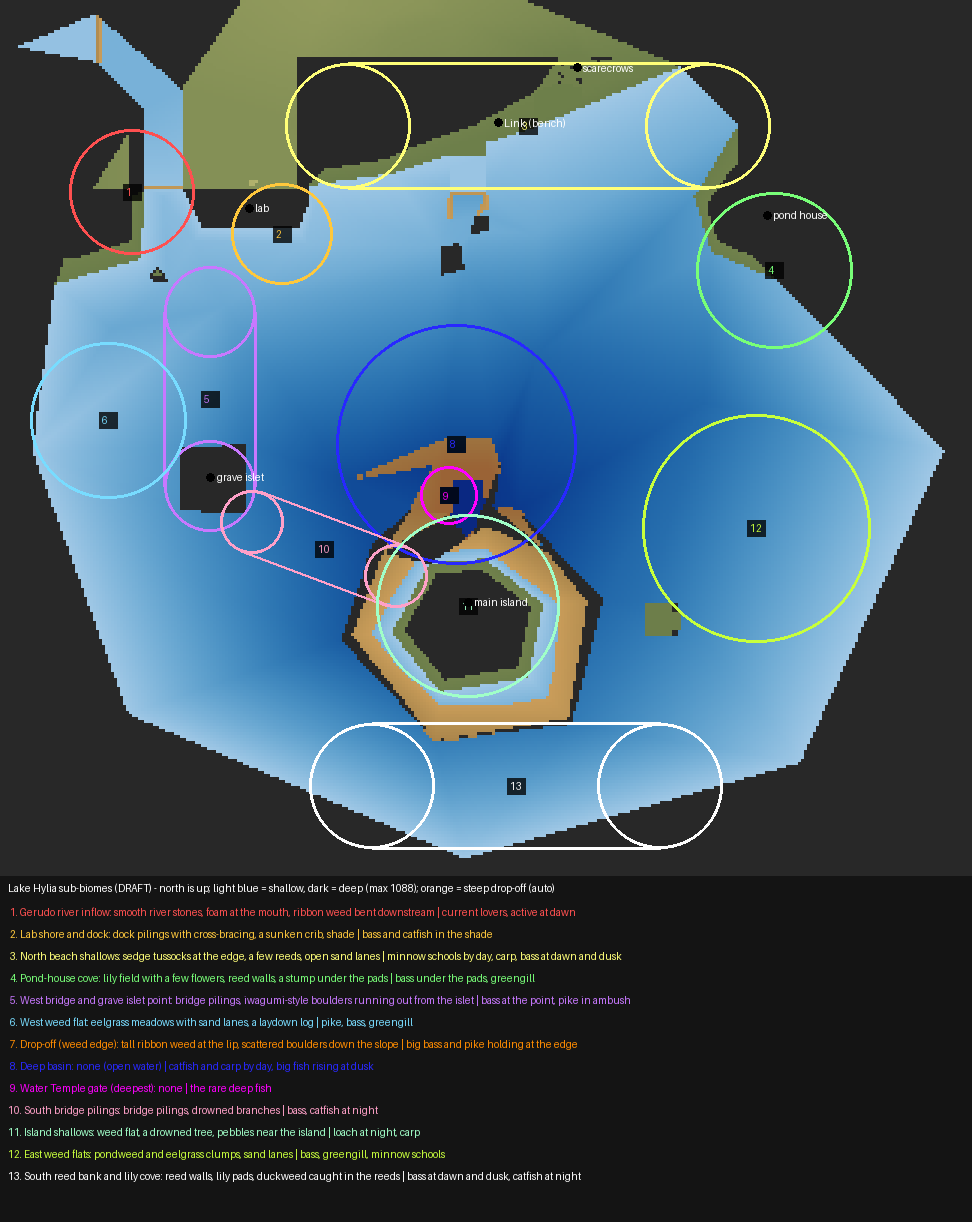
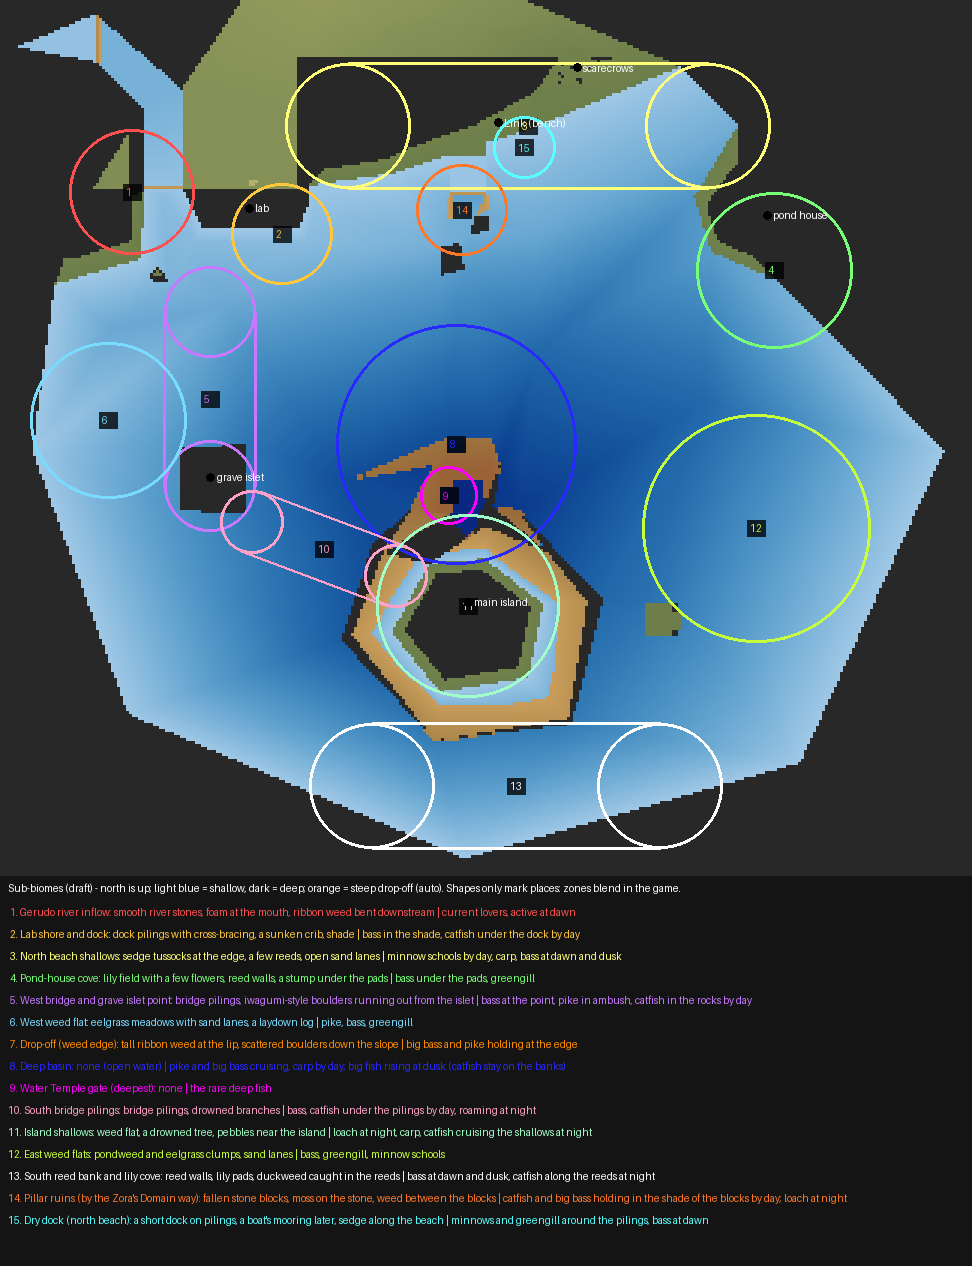
Lake Hylia sub-biome map, draft 2: pillar ruins and a dry dock by the north beach; catfish on bank cover by day, roaming the shallows at night; zone_map.py renders it
Claude-Session: https://claude.ai/code/session_01Ns8wfSgc7GHj6hbL7fMboW

diff --git a/fishmod/tools/zone_map.py b/fishmod/tools/zone_map.py
@@ -1,0 +1,115 @@
+#!/usr/bin/env python3
+"""Draws a scene's sub-biome zones (fishmod/data/<scene>_zones.json) over its depth map, for review.
+
+Depth comes from the scene's collision (the same floor finder as gen_watermap.py): light blue is shallow, dark blue
+deep; orange marks steep drop-offs (found automatically). Landmarks are labelled.
+
+Usage: fishmod/tools/zone_map.py [zones.json] [out.png]
+       (default: fishmod/data/lake_hylia_zones.json -> fishmod/docs/lake-hylia-zones-draft.png)
+"""
+import importlib.util
+import json
+import math
+import os
+import sys
+
+from PIL import Image, ImageDraw, ImageFont
+
+ROOT = os.path.normpath(os.path.join(os.path.dirname(__file__), "..", ".."))
+spec = importlib.util.spec_from_file_location("gen_watermap", os.path.join(ROOT, "fishmod", "tools", "gen_watermap.py"))
+gw = importlib.util.module_from_spec(spec)
+spec.loader.exec_module(gw)
+
+SCENES = {"SCENE_LAKE_HYLIA": ("overworld/spot06", (-4800, 3300, 2100, 9400), [
+    ("lab", -2721, 3835), ("pond house", 1592, 3893), ("scarecrows", 12, 2664), ("main island", -900, 7120),
+    ("grave islet", -3045, 6077), ("Link (bench)", -649, 3121)])}
+STEP = 25
+SCALE = 3
+COLOURS = [(255, 80, 80), (255, 200, 60), (255, 255, 120), (120, 255, 120), (200, 120, 255), (120, 220, 255),
+           (255, 140, 0), (40, 40, 255), (255, 0, 255), (255, 160, 200), (160, 255, 200), (200, 255, 60),
+           (255, 255, 255), (255, 120, 40), (90, 255, 255)]
+
+
+def main():
+    zones_path = sys.argv[1] if len(sys.argv) > 1 else os.path.join(ROOT, "fishmod", "data", "lake_hylia_zones.json")
+    out_path = sys.argv[2] if len(sys.argv) > 2 else os.path.join(ROOT, "fishmod", "docs", "lake-hylia-zones-draft.png")
+    data = json.load(open(zones_path))
+    folder, (x0, x1, z0, z1), landmarks = SCENES[data["scene"]]
+    d = os.path.join(gw.SCENES, folder)
+    vtx = gw.parse_vtx(gw.one(d, "*_VtxList.inc.c"))
+    finder = gw.FloorFinder(gw.parse_floors(gw.one(d, "*_PolyList.inc.c"), vtx))
+    boxes = gw.parse_waterboxes(gw.one(d, "*_WaterBoxes.inc.c"))
+    w, h = (x1 - x0) // STEP, (z1 - z0) // STEP
+    base = Image.new("RGB", (w, h), (40, 40, 40))
+    depth = {}
+    for j in range(h):
+        for i in range(w):
+            x, z = x0 + i * STEP, z0 + j * STEP
+            surf = next((b["y"] for b in boxes if b["xMin"] <= x <= b["xMin"] + b["xLen"] and
+                         b["zMin"] <= z <= b["zMin"] + b["zLen"]), None)
+            f = finder.floor(x, z, (surf + 60) if surf is not None else 100000)
+            if surf is None or f is None or f >= surf:
+                if f is not None:
+                    t = max(0, min(1, (f + 1400) / 900))
+                    base.putpixel((i, j), (int(100 + 80 * t), int(120 + 60 * t), int(70 + 40 * t)))
+                continue
+            depth[(i, j)] = surf - f
+            t = min((surf - f) / 1000.0, 1.0)
+            base.putpixel((i, j), (int(150 * (1 - t) ** 2 + 10), int(200 * (1 - t) + 40 * t), int(230 - 100 * t)))
+    img = base.resize((w * SCALE, h * SCALE), Image.NEAREST).convert("RGBA")
+    ov = Image.new("RGBA", img.size, (0, 0, 0, 0))
+    dr = ImageDraw.Draw(ov)
+    font = ImageFont.load_default()
+
+    def P(x, z):
+        return ((x - x0) / STEP * SCALE, (z - z0) / STEP * SCALE)
+
+    for (i, j), dp in depth.items():
+        n = [depth.get((i + a, j + b)) for a, b in ((1, 0), (-1, 0), (0, 1), (0, -1))]
+        n = [v for v in n if v is not None]
+        if n and max(abs(dp - v) for v in n) > 14 and dp > 120:
+            dr.rectangle([i * SCALE, j * SCALE, i * SCALE + SCALE - 1, j * SCALE + SCALE - 1], fill=(255, 140, 0, 150))
+    for k, zn in enumerate(data["zones"]):
+        c = COLOURS[k % len(COLOURS)]
+        sh = zn["shape"]
+        if isinstance(sh, str):
+            continue
+        if sh[0] == "circle":
+            cx, cz = P(sh[1], sh[2])
+            r = sh[3] / STEP * SCALE
+            dr.ellipse([cx - r, cz - r, cx + r, cz + r], outline=c + (255,), width=3)
+            lx, lz = cx, cz
+        else:
+            ax, az = P(sh[1], sh[2])
+            bx, bz = P(sh[3], sh[4])
+            r = sh[5] / STEP * SCALE
+            length = math.hypot(bx - ax, bz - az)
+            nx, nz = -(bz - az) / length, (bx - ax) / length
+            dr.line([(ax + nx * r, az + nz * r), (bx + nx * r, bz + nz * r)], fill=c + (255,), width=3)
+            dr.line([(ax - nx * r, az - nz * r), (bx - nx * r, bz - nz * r)], fill=c + (255,), width=3)
+            dr.ellipse([ax - r, az - r, ax + r, az + r], outline=c + (255,), width=3)
+            dr.ellipse([bx - r, bz - r, bx + r, bz + r], outline=c + (255,), width=3)
+            lx, lz = (ax + bx) / 2, (az + bz) / 2
+        dr.rectangle([lx - 9, lz - 8, lx + 9, lz + 8], fill=(0, 0, 0, 200))
+        dr.text((lx - 6, lz - 6), str(zn["id"]), fill=c + (255,), font=font)
+    for name, x, z in landmarks:
+        px, pz = P(x, z)
+        dr.ellipse([px - 4, pz - 4, px + 4, pz + 4], fill=(0, 0, 0, 255))
+        dr.text((px + 6, pz - 6), name, fill=(255, 255, 255, 255), font=font)
+    img = Image.alpha_composite(img, ov)
+    leg = Image.new("RGBA", (img.width, 22 * len(data["zones"]) + 60), (20, 20, 20, 255))
+    ld = ImageDraw.Draw(leg)
+    ld.text((8, 6), "Sub-biomes (draft) - north is up; light blue = shallow, dark = deep; orange = steep drop-off "
+            "(auto). Shapes only mark places: zones blend in the game.", fill=(255, 255, 255), font=font)
+    for k, zn in enumerate(data["zones"]):
+        ld.text((8, 30 + 22 * k), f"{zn['id']:2d}. {zn['name']}: {zn['props']} | {zn['fish']}",
+                fill=COLOURS[k % len(COLOURS)], font=font)
+    out = Image.new("RGBA", (img.width, img.height + leg.height))
+    out.paste(img, (0, 0))
+    out.paste(leg, (0, img.height))
+    out.convert("RGB").save(out_path)
+    print(f"wrote {out_path}")
+
+
+if __name__ == "__main__":
+    main()
